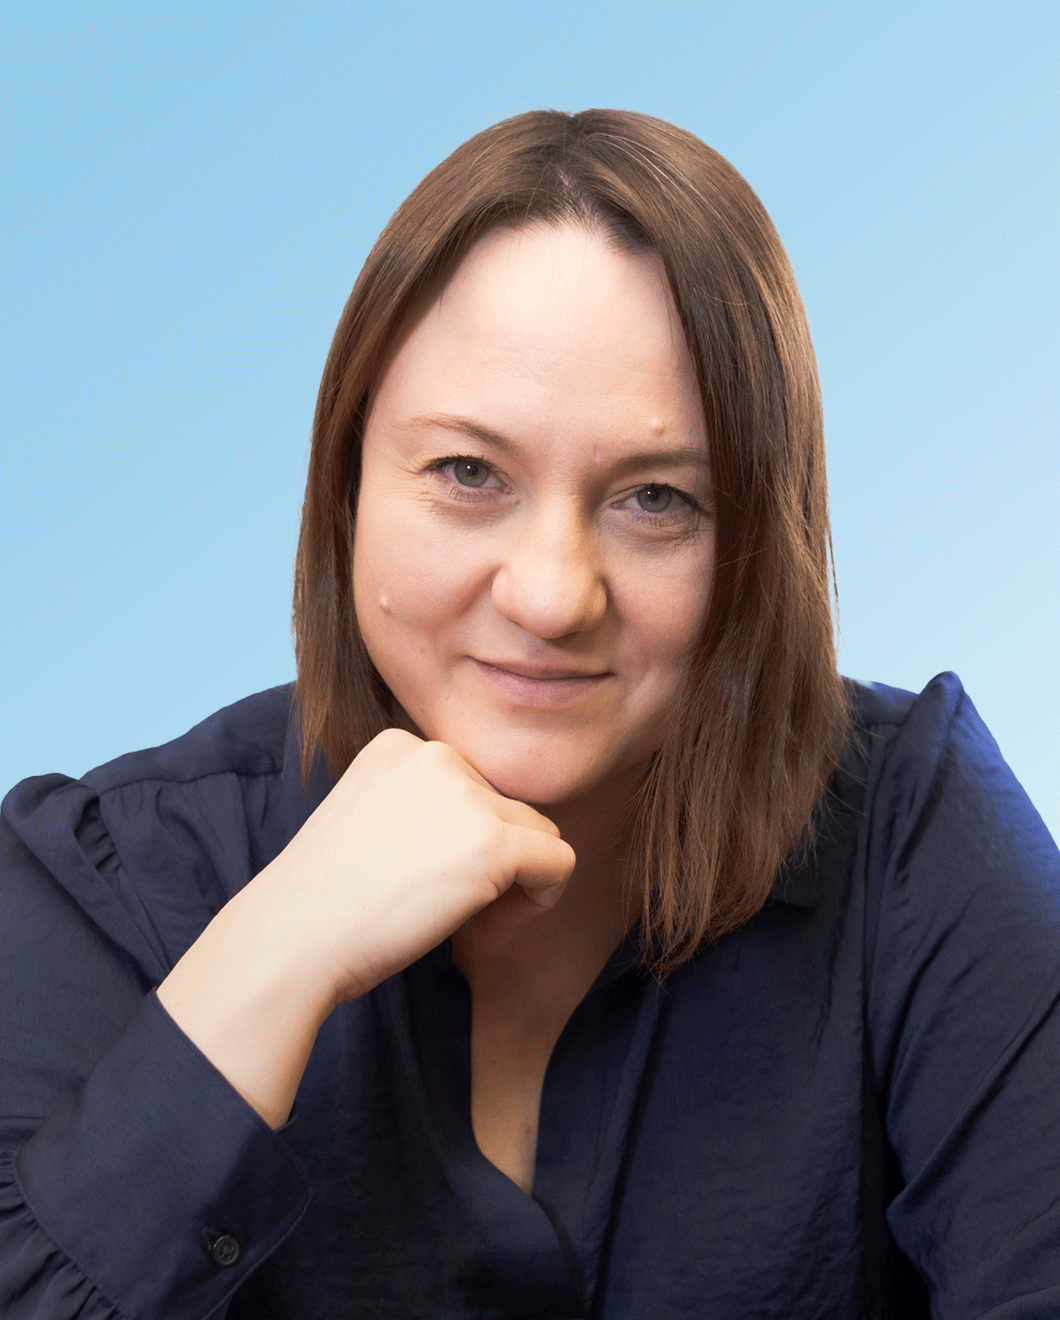
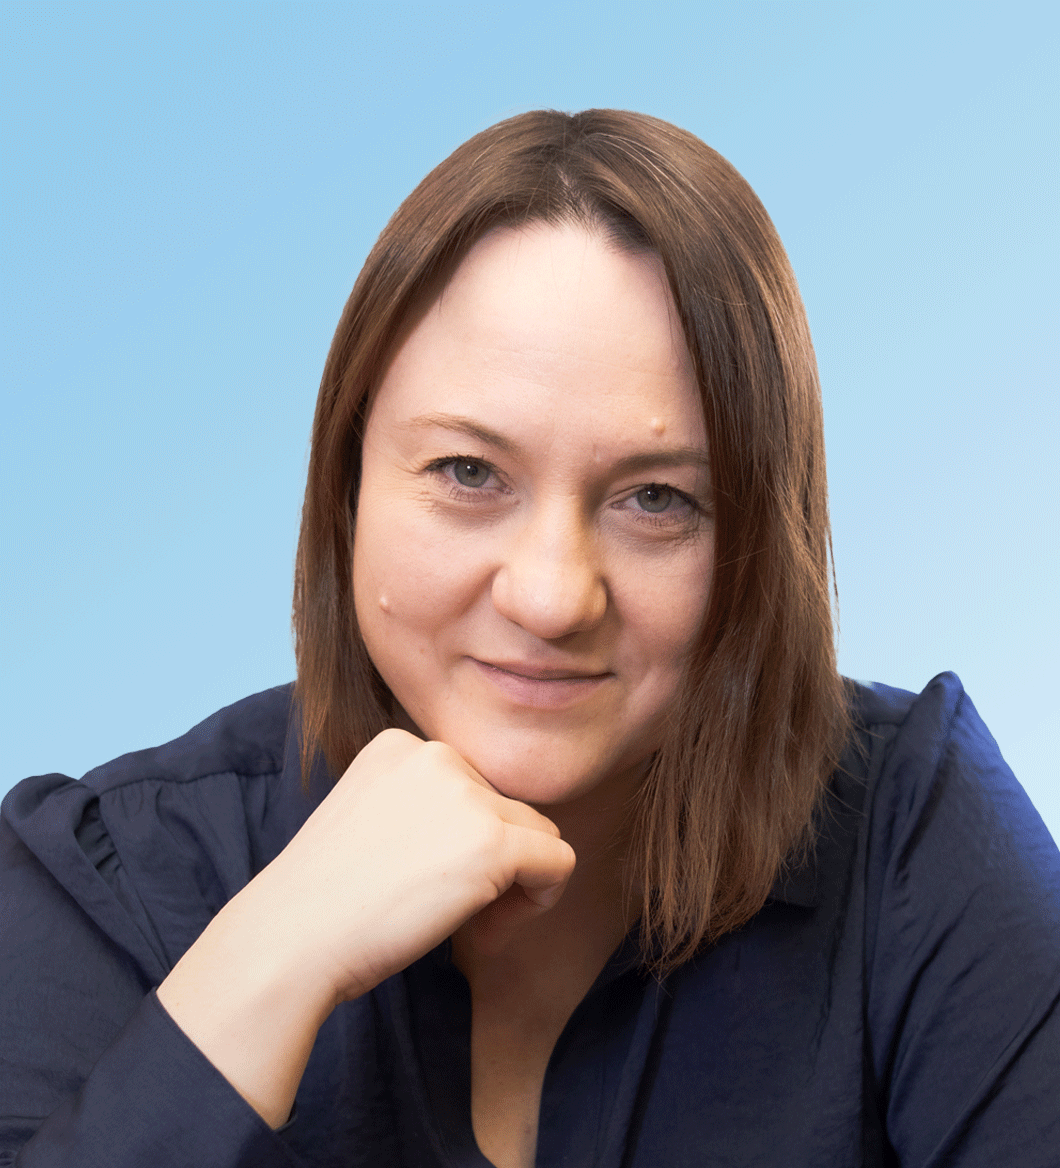
employees images updated2

diff --git a/components/TeamSection.tsx b/components/TeamSection.tsx
@@ -17,7 +17,7 @@ const TeamSection = () => {
             <Image
               src="/images/employees/val.png"
               alt="Team Member 1"
-              className="rounded-full mb-4 mx-auto"
+              className="rounded-full mb-4 mx-auto w-[200px] h-[200px] object-cover"
               width={200}
               height={200}
             />
@@ -32,7 +32,7 @@ const TeamSection = () => {
             <Image
               src="/images/employees/kate.png"
               alt="Team Member 2"
-              className="rounded-full mb-4 mx-auto"
+              className="rounded-full mb-4 mx-auto w-[200px] h-[200px] object-cover"
               width={200}
               height={200}
             />
